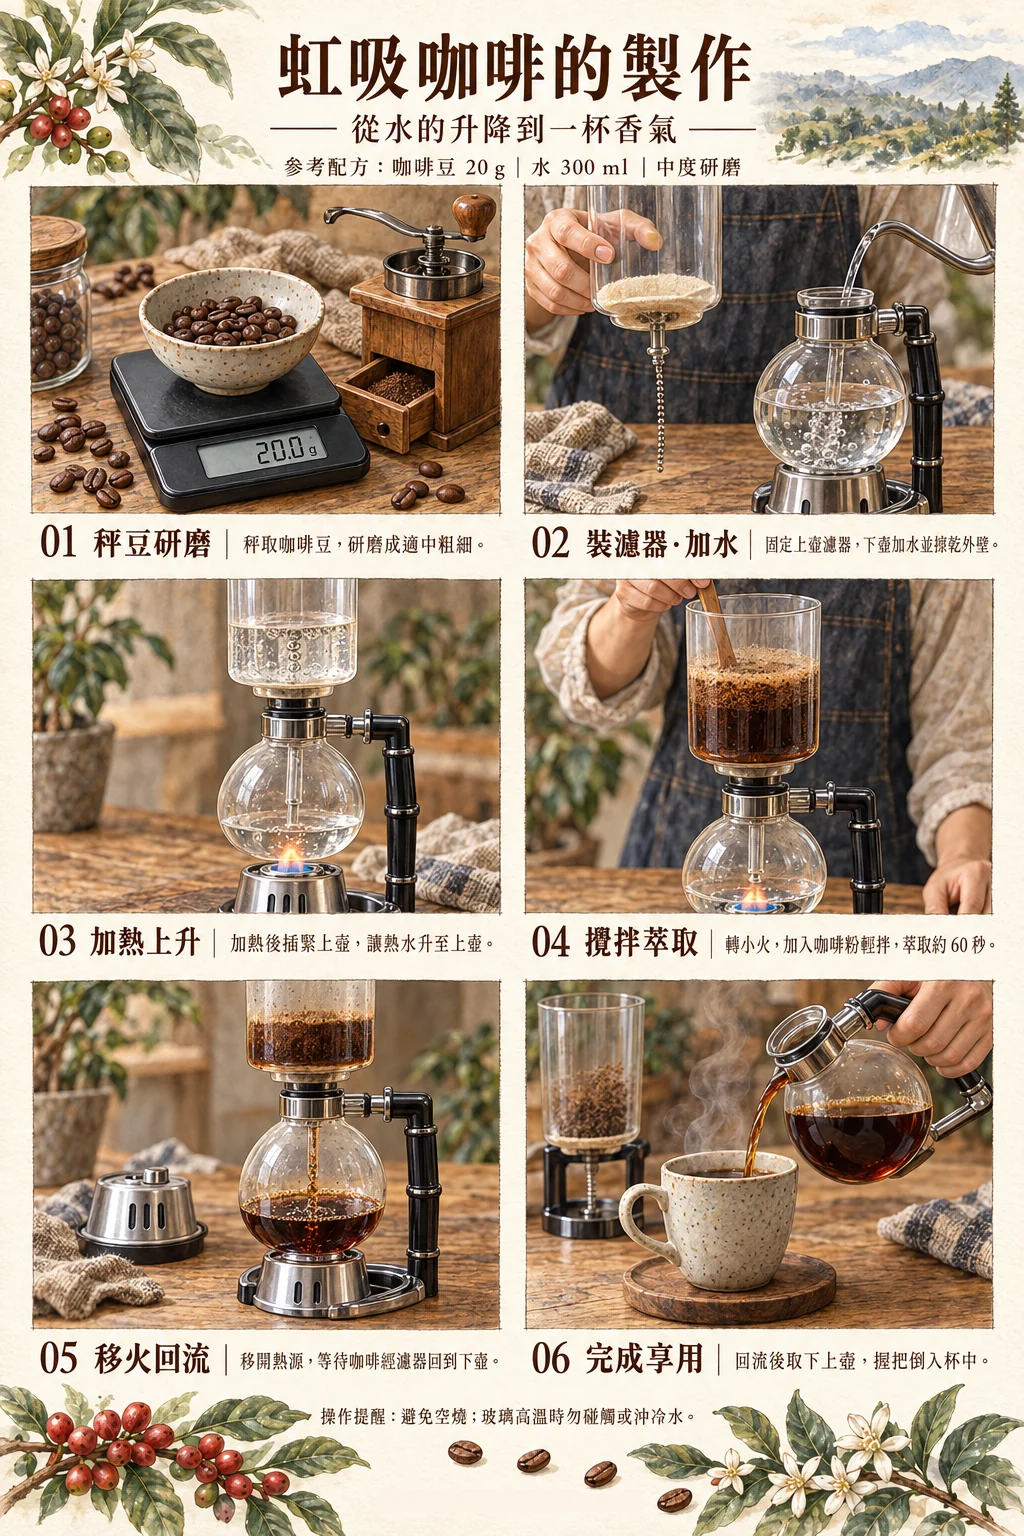
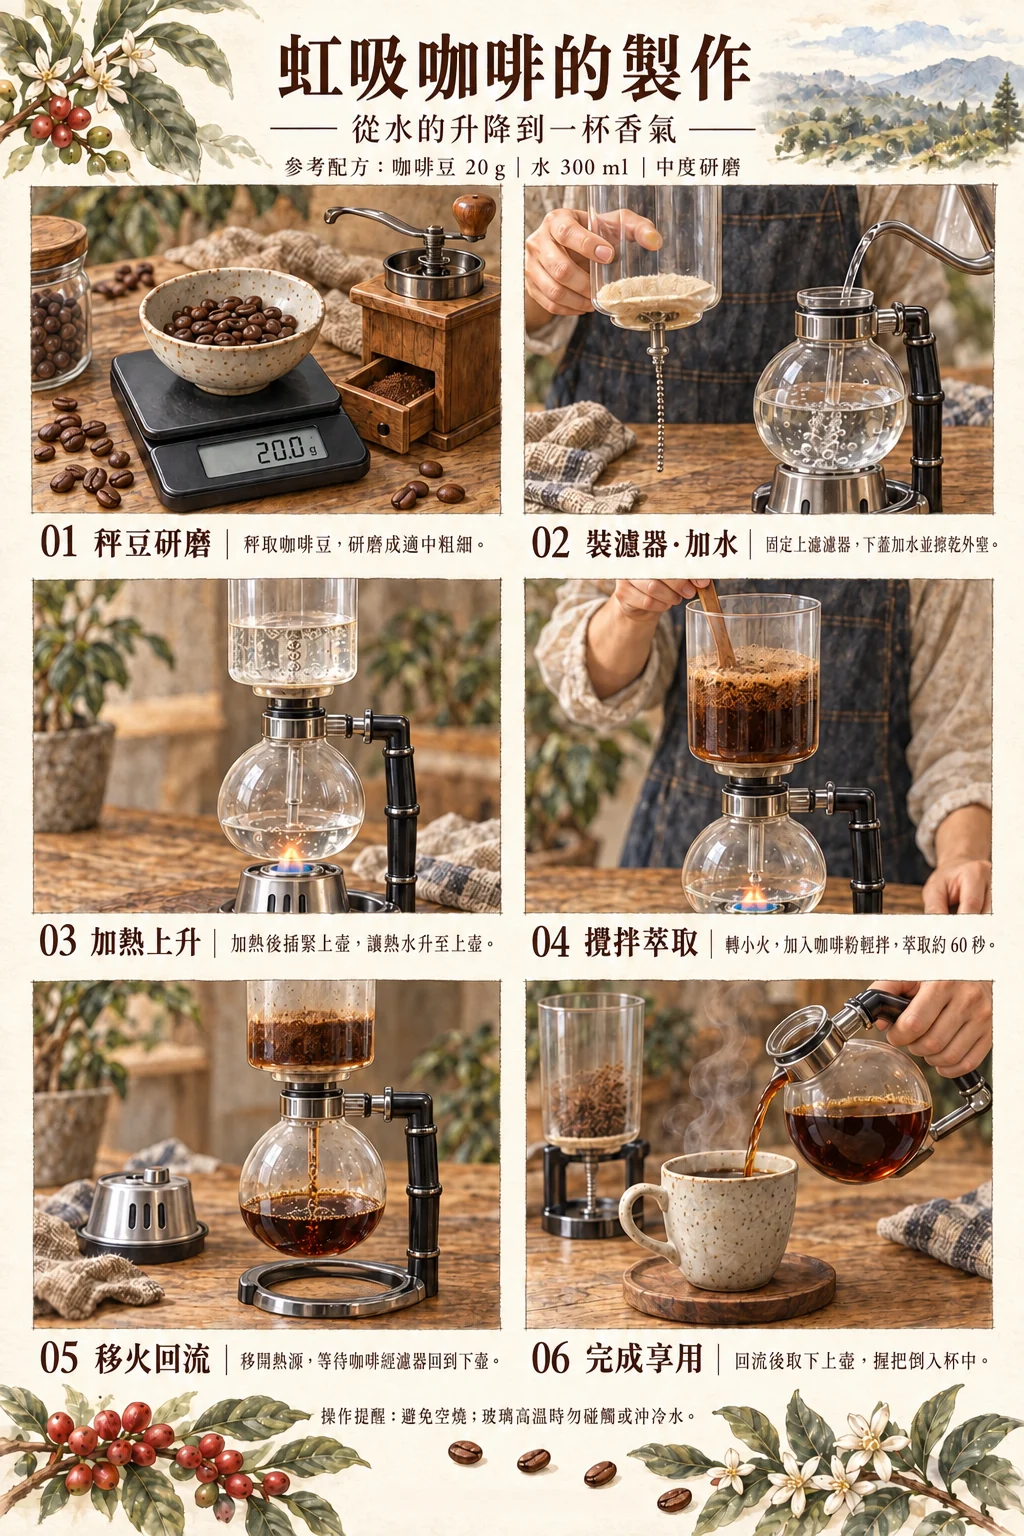
Correct siphon tutorial step 05 by removing heater under the lower vessel

diff --git a/coffee-tutorial.html b/coffee-tutorial.html
@@ -30,7 +30,7 @@
         <h1 id="project-title" class="sr-only">品嚐咖啡教程</h1>
         <div class="project-gallery__content">
           <img src="assets/images/coffee-tutorial/coffee-01.webp" style="width:80%; margin-inline:auto;" alt="手沖咖啡製作全流程" width="1024" height="1536" decoding="async" draggable="false" fetchpriority="high">
-          <img src="assets/images/coffee-tutorial/coffee-02.webp" style="width:80%; margin-inline:auto;" alt="虹吸咖啡六步驟" width="1024" height="1536" decoding="async" draggable="false" loading="lazy">
+          <img src="assets/images/coffee-tutorial/coffee-02.webp?v=20261014-siphon-heat-removed" style="width:80%; margin-inline:auto;" alt="虹吸咖啡六步驟" width="1024" height="1536" decoding="async" draggable="false" loading="lazy">
           <img src="assets/images/coffee-tutorial/coffee-03.webp" style="width:80%; margin-inline:auto;" alt="木桌上的愛心拿鐵" width="1024" height="1536" decoding="async" draggable="false" loading="lazy">
           <img src="assets/images/coffee-tutorial/coffee-04.webp" style="width:80%; margin-inline:auto;" alt="一杯咖啡，四種心意" width="1024" height="1536" decoding="async" draggable="false" loading="lazy">
           <img src="assets/images/coffee-tutorial/coffee-05.webp" style="width:80%; margin-inline:auto;" alt="咖啡冰沙圖鑑" width="1024" height="1536" decoding="async" draggable="false" loading="lazy">
